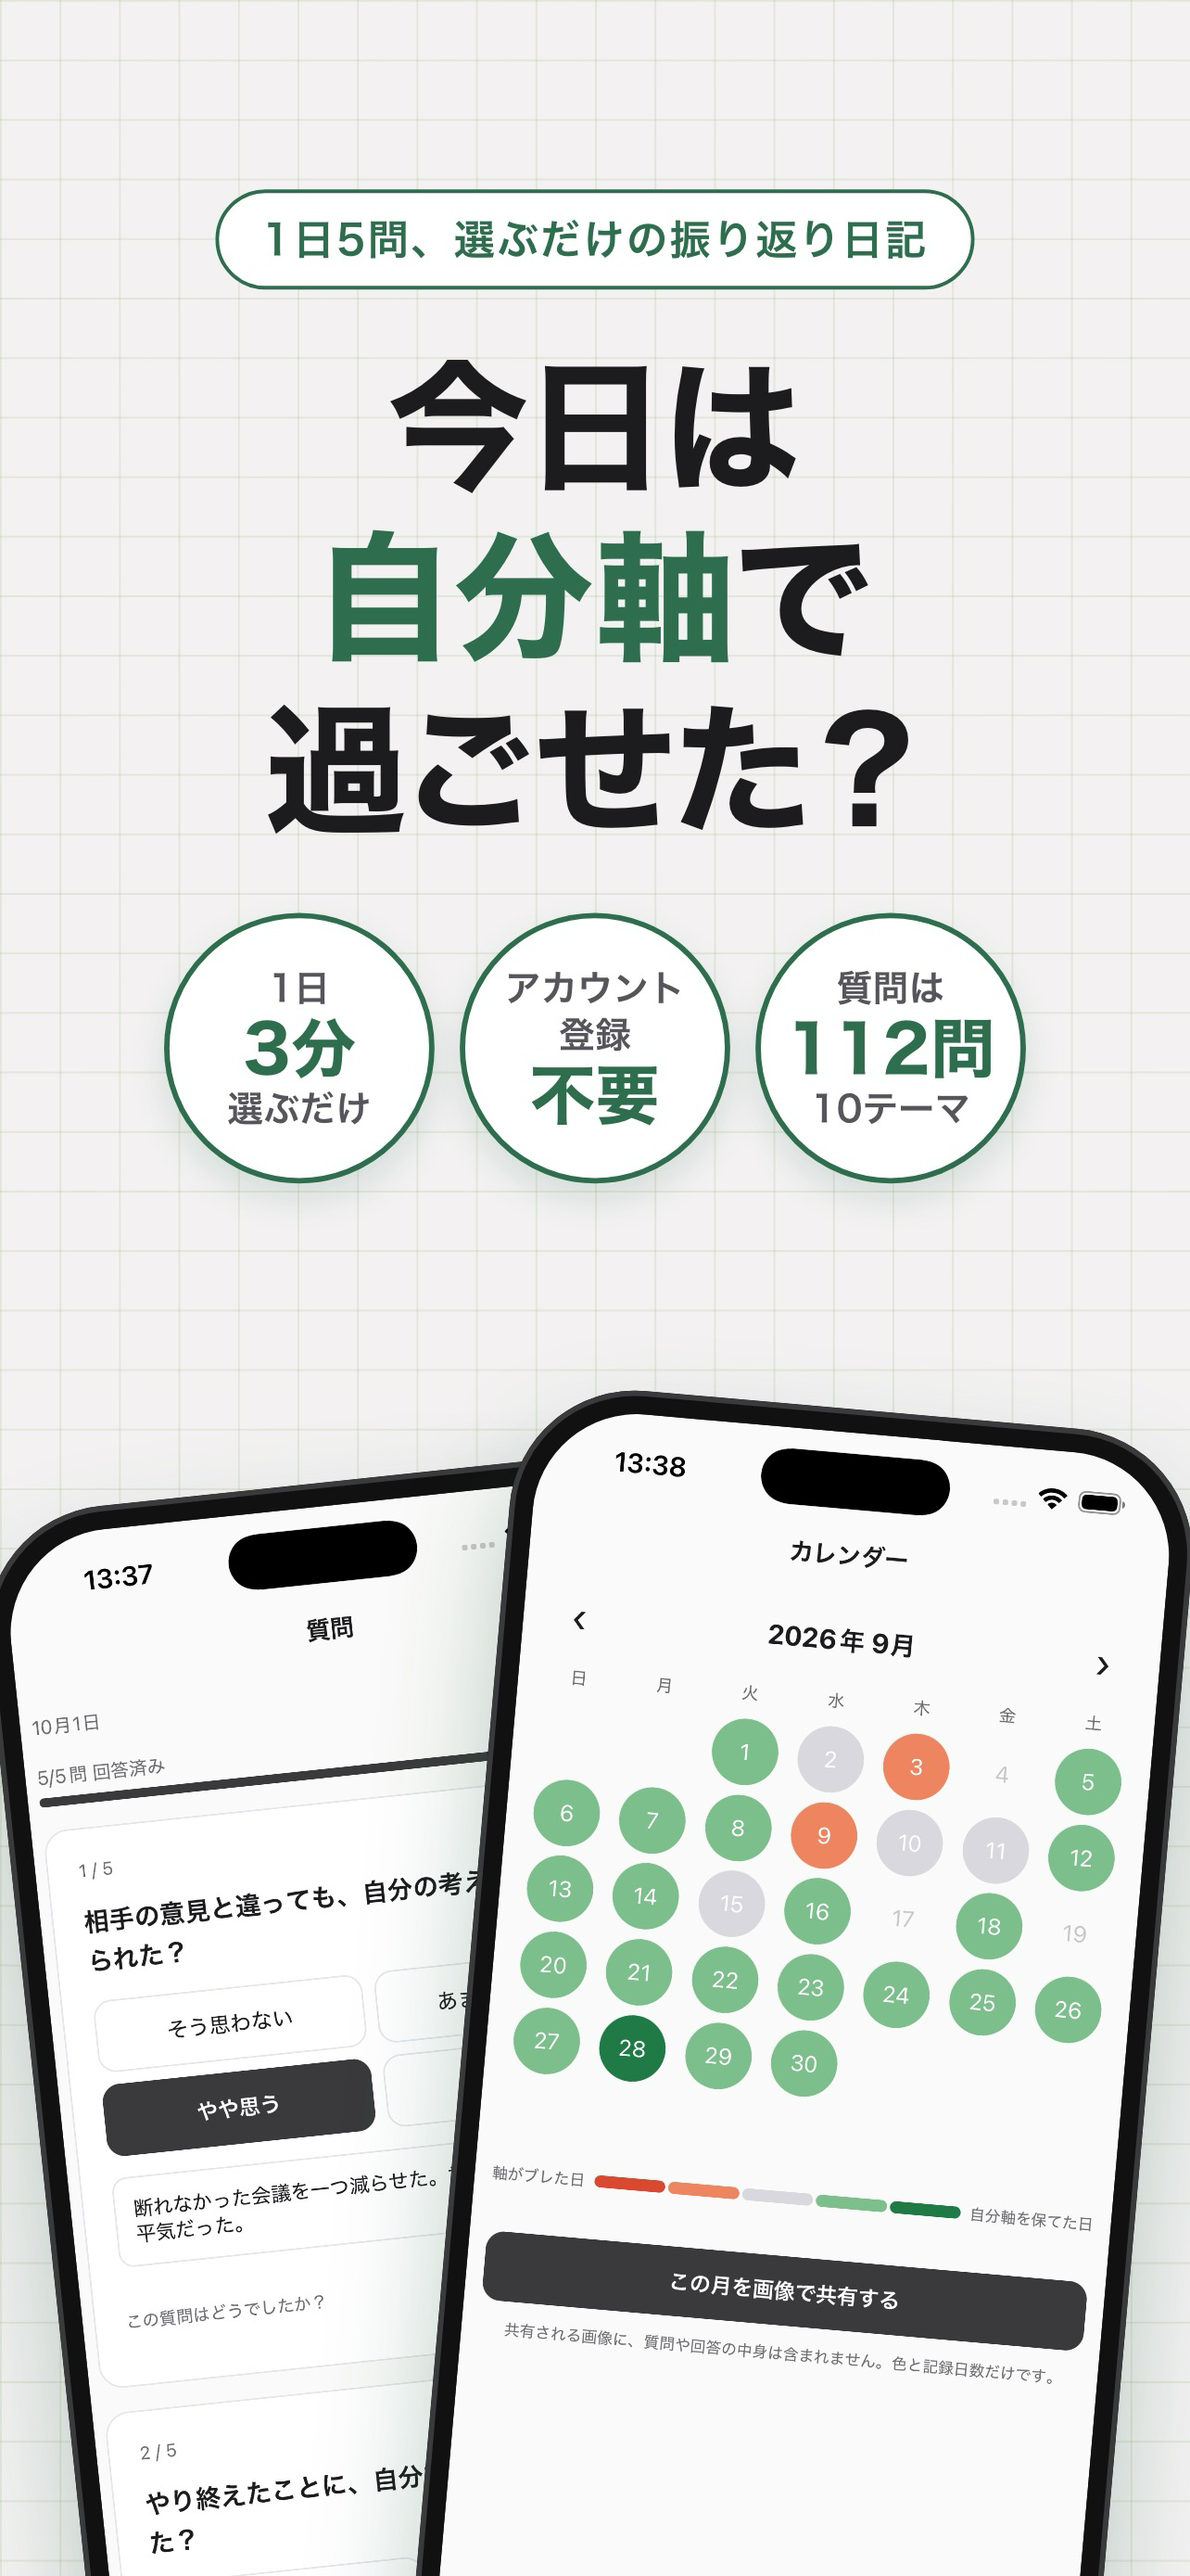
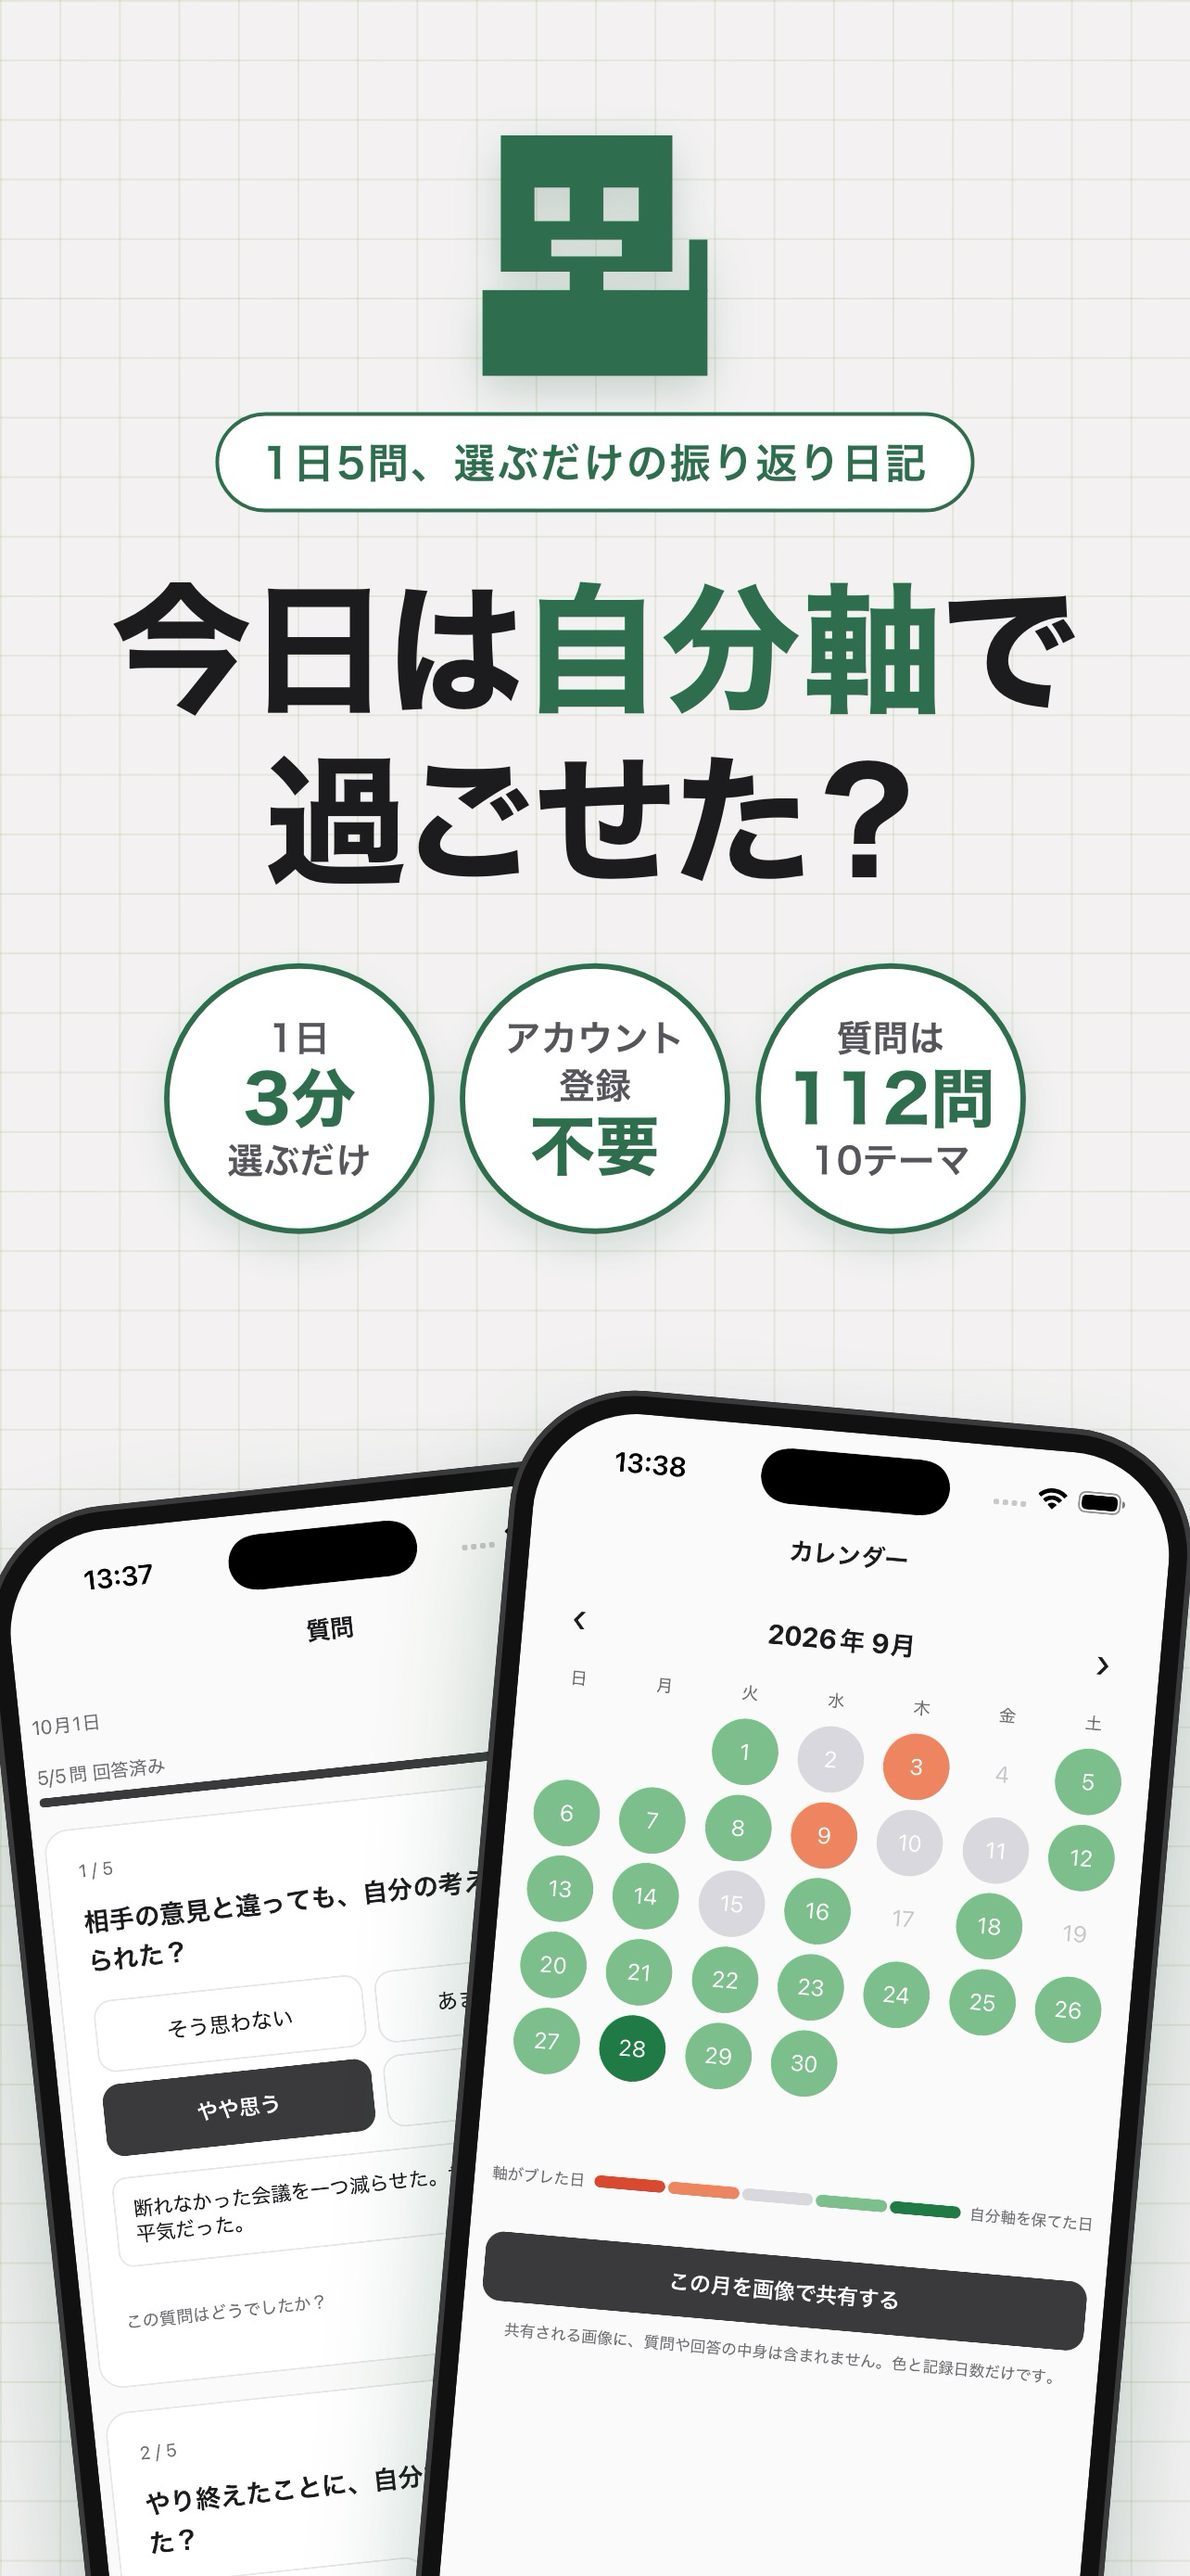
chore(store): 紹介画像の1枚目にキャラクターを追加
書き出し中に headless Chrome が止まることがあるため、
30秒で打ち切って最大3回やり直すようにした。

Changed region(s): [[0.0935, 0.031, 0.9034, 0.4953]]

diff --git a/store-assets/promo/promo.html b/store-assets/promo/promo.html
@@ -57,7 +57,8 @@
 
   /* 1枚目（ヒーロー） */
   .hero h1 { font-size: 156px; }
-  .hero .copy { z-index: 2; }
+  .hero .copy { z-index: 2; top: 150px; }
+  .mascot { display: block; width: 250px; height: auto; margin: 0 auto 40px; filter: drop-shadow(0 16px 24px rgba(31, 90, 62, 0.22)); }
   .badges { display: flex; justify-content: center; gap: 28px; margin-top: 64px; }
   .badge {
     width: 300px; height: 300px; border-radius: 50%; background: #fff;
@@ -89,6 +90,13 @@
 <script>
   const STRIPE = ['#D9482F', '#EF8460', '#D8D8DE', '#7CBE8C', '#1F7A45']
     .map(c => `<i style="background:${c}"></i>`).join('');
+  // アプリアイコンのキャラクター（icon.png のドット絵を背景なしで描き直したもの）
+  const MASCOT = `<svg class="mascot" viewBox="66 56 268 286" fill="#2E6E4E">
+    <path fill-rule="evenodd" d="M88 56h204v162H88z M128 118v40h42v-40z M210 118v40h42v-40z M148 180v20h84v-20z"/>
+    <rect x="170" y="218" width="40" height="24"/>
+    <rect x="66" y="240" width="268" height="102"/>
+    <rect x="312" y="180" width="22" height="62"/>
+  </svg>`;
   const shot = name => `../screenshots/6.9/${name}.png`;
   const phone = (name, cls = '', top = 1180) =>
     `<div class="phone ${cls}" style="top:${top}px"><img src="${shot(name)}"></div>`;
@@ -98,8 +106,9 @@
       cls: 'hero pair',
       html: `
         <div class="copy">
+          ${MASCOT}
           <div class="eyebrow">1日5問、選ぶだけの振り返り日記</div>
-          <h1>今日は<br><em>自分軸</em>で<br>過ごせた？</h1>
+          <h1>今日は<em>自分軸</em>で<br>過ごせた？</h1>
           <div class="badges">
             <div class="badge"><small>1日</small><b>3分</b><small>選ぶだけ</small></div>
             <div class="badge"><small>アカウント<br>登録</small><b>不要</b></div>
